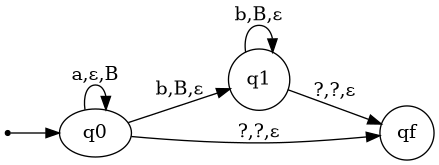
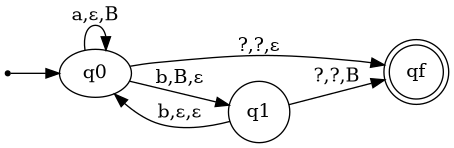
aaaaaa

diff --git a/pda.py b/pda.py
@@ -36,11 +36,11 @@ init = l.split("#")[0]
 init = init.split()
 quint.append(init)
 
+f.readline()
 l = f.readline()
 termin = l.split("#")[0]
 termin = termin.split()
 quint.append(termin)
-
 
 #criando o arquivo do graphviz -------------------------------------------------------
 gra = open("graphpy.gv", "w+")
@@ -52,10 +52,10 @@ gra.write(' init [shape=point]\n')
 for x in quint[4]:
     gra.write(' init -> {}\n'.format(x))
 
-finais = ' [shape=doublecircle] \n'
+finais = " node[shape=doublecircle] "
 for x in quint[5]:
-    finais += x
-gra.write(x)
+    finais = finais + x
+gra.write(finais + ";\n")
 
 gra.write(' node[shape=circle]\n')
 
@@ -77,27 +77,33 @@ for i in fita:
         print(i, " não é aceito pelo autamato \nfita não reconhecida")
         exit()
     
-    print(stack,"\n", estado)
 
     for j in quint[3]:
         if estado == j[0]:
             if i == j[1]:
                 if len(stack) != 0:   
-                    print(stack, j)
                     if stack[-1]== j[3]:  
                         stack.pop()
-                        stack.append(j[2])
+                        if j[2] != "ε":
+                            stack.append(j[2])
                         estado = j[4]
-                        print("leu o elemento ", posfita)
                         posfita+=1
-                        continue
+                        break
+                    elif j[3] == "ε":
+                        if j[2] != "ε":
+                            stack.append(j[2])
+                        estado = j[4]
+                        posfita+=1
+                        break
                 else:
                     if j[3] == "ε":  
                         if j[2] != "?":
                             stack.append(j[2])
                         estado = j[4]
-                        print("leu o elemento ", posfita)
                         posfita+=1
-                        continue
+                        break
                 print("Fita não reconhecida")
                 break
+    
+if (estado in quint[5]):
+    print("Fita reconhecida")
